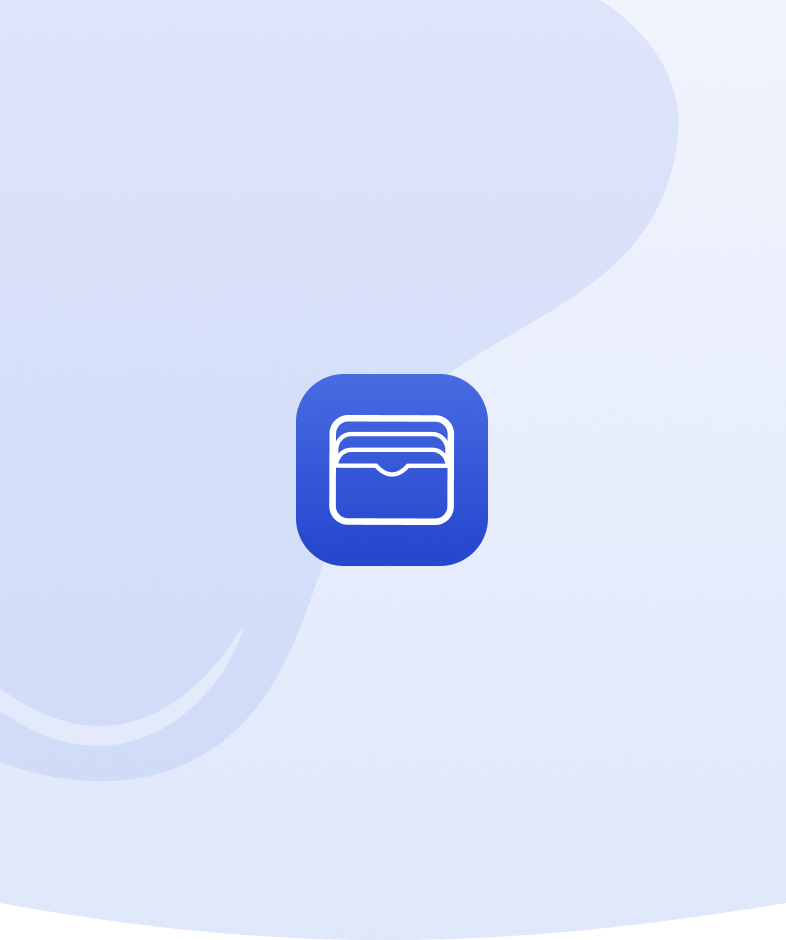
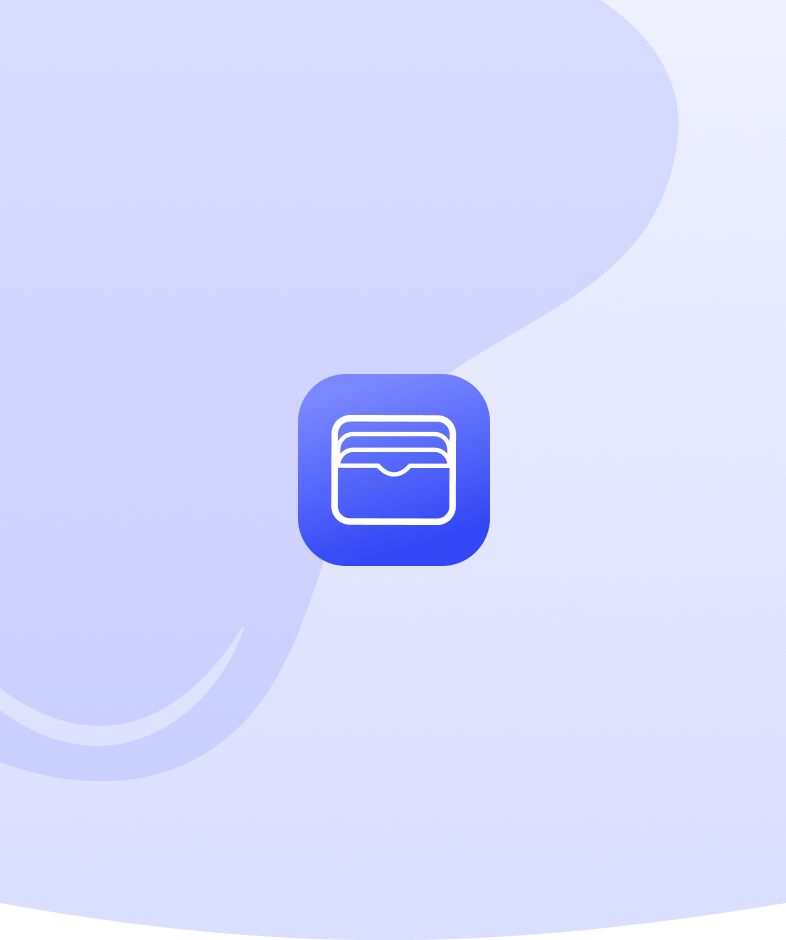
chore: started with the images

Changed region(s): [[0.3664, 0.3702, 0.6412, 0.617]]

diff --git a/apps/easypid/src/features/onboarding/screens/assets/ProtectData.tsx b/apps/easypid/src/features/onboarding/screens/assets/ProtectData.tsx
@@ -5,11 +5,11 @@ export function ProtectData() {
     <Svg width="100%" height="100%" style={{ aspectRatio: 1 }} viewBox="0 0 280 288" fill="none">
       <Path
         d="M191.403 149.929C205.497 161.618 227.195 179.542 230.577 197.8C237.906 237.354 189.609 275.423 155.428 284.719C92.1745 301.919 36.8479 226.873 11.756 177.966C-7.77917 139.873 -6.69766 103.231 43.889 95.5224C93.4516 87.9753 154.001 118.923 191.392 149.929H191.403Z"
-        fill="url(#paint0_linear_3268_4328)"
+        fill="url(#paint0_linear_2304_17437)"
       />
       <Path
         d="M136.399 94.8897C126.298 88.0329 110.732 77.529 107.315 65.61C99.9174 39.8162 129.542 11.4454 151.643 3.0814C192.543 -12.3926 234.086 33.8798 253.886 64.7586C269.303 88.8037 270.925 113.205 237.837 121.558C205.405 129.749 163.217 113.079 136.411 94.8897H136.399Z"
-        fill="url(#paint1_linear_3268_4328)"
+        fill="url(#paint1_linear_2304_17437)"
       />
       <Path
         d="M193.509 18.8198C177.207 12.8948 160.145 15.748 144.591 22.6509C139.206 24.8368 133.88 27.5405 127.966 29.9335C127.701 30.0485 127.425 29.6573 127.678 29.4618C132.188 25.4236 137.02 21.7075 142.29 18.6703C152.713 12.4922 165.161 8.82214 177.299 11.0771C183.304 12.147 189.137 14.5055 193.889 18.3941C194.142 18.6587 193.866 19.0154 193.509 18.8313V18.8198Z"
@@ -25,11 +25,11 @@ export function ProtectData() {
       />
       <Path
         d="M162.147 249.479C145.879 248.156 113.102 245.855 96.8227 244.717C90.9897 244.705 86.0772 239.091 86.8825 233.281L90.2189 184.27C92.5429 153.587 96.2474 99.1003 98.5023 68.9347C98.8475 62.9867 104.462 58.1086 110.421 58.6609L175.746 63.2858L176.252 63.3203C182.188 63.6655 187.158 69.0842 186.905 75.0437C185.306 98.9507 182.395 133.787 180.336 157.763C178.84 173.997 175.884 206.762 174.399 222.995L173.03 239.309C173.122 245.004 167.899 250.112 162.147 249.479ZM162.17 249.134C167.715 249.606 172.593 244.774 172.421 239.263L173.525 222.926L175.516 190.241C177.184 161.111 179.83 121.305 182.073 92.2204L183.35 75.8951C184.006 71.1551 180.29 66.7948 175.493 66.7027L110.214 61.422C105.727 60.9733 101.425 64.6434 101.137 69.1533C98.744 99.0887 94.3721 153.967 91.9446 184.42L87.8604 233.373C87.078 238.746 91.4268 243.9 96.8916 244.003C113.171 245.326 145.902 247.984 162.181 249.146L162.17 249.134Z"
-        fill="#2A337E"
+        fill="#202EA7"
       />
       <Path
         d="M157.201 72.4651L127.661 70.2284C126.85 70.167 126.143 70.7746 126.082 71.5856L126.053 71.9642C125.991 72.7752 126.599 73.4824 127.41 73.5438L156.95 75.7805C157.761 75.8419 158.469 75.2342 158.53 74.4232L158.559 74.0447C158.62 73.2337 158.012 72.5265 157.201 72.4651Z"
-        fill="#2A337E"
+        fill="#202EA7"
       />
       <Path
         d="M80.4282 174.215C80.4282 174.215 79.784 135.547 55.3823 139.655C32.0505 143.578 41.2889 179.001 41.2889 179.001L47.6741 178.219C47.6741 178.219 40.7712 148.686 56.4292 145.879C72.8121 142.945 73.9856 174.997 73.9856 174.997L80.4282 174.215Z"
@@ -37,43 +37,43 @@ export function ProtectData() {
       />
       <Path
         d="M82.3149 173.857L38.7598 179.182C31.6077 180.057 26.5186 186.563 27.393 193.715L30.9782 223.041C31.8526 230.193 38.3593 235.283 45.5114 234.408L89.0664 229.083C96.2185 228.209 101.308 221.702 100.433 214.55L96.848 185.224C95.9737 178.072 89.467 172.983 82.3149 173.857Z"
-        fill="url(#paint2_linear_3268_4328)"
+        fill="url(#paint2_linear_2304_17437)"
       />
       <Path
         d="M89.0914 229.323C75.3201 231.026 60.2258 233.189 46.6156 235.444C38.6198 237.308 30.2213 231.555 29.0708 223.352L27.9318 216.288C26.8043 209.489 25.6309 201.942 24.6645 195.073C23.5255 189.356 25.7344 183.178 30.3478 179.577C32.6258 177.701 35.4674 176.551 38.3781 176.16L52.5865 174.537C61.7674 173.652 73.8935 172.329 82.9938 171.753C90.5639 171.362 97.6509 177.552 98.2031 185.099C98.7783 192.013 99.3996 199.618 100.032 206.486C100.193 208.994 101.079 214.781 100.838 217.243C100.309 223.387 95.2578 228.691 89.1028 229.312L89.0914 229.323ZM89.0568 228.978C94.9933 228.311 99.9059 223.168 100.297 217.209C100.481 214.873 99.4687 208.994 99.2386 206.59L97.4783 192.393C96.857 188.274 96.9031 182.2 93.9003 178.921C90.9896 175.159 86.008 173.467 81.3716 174.319L38.7923 179.588C31.6018 180.336 26.3902 187.641 27.8168 194.694C28.3575 199.181 29.8301 211.341 30.3823 215.989C31.1302 220.637 30.7504 225.78 33.9143 229.461C36.8135 233.235 41.7951 234.949 46.443 234.109L89.0338 228.967L89.0568 228.978Z"
-        fill="#2A337E"
+        fill="#202EA7"
       />
       <Path
         d="M40.9438 178.99C37.3313 167.646 35.4446 153 43.9121 143.21C48.5255 138.32 55.7275 136.445 62.2737 137.641C77.6211 140.909 81.2221 161.376 80.1981 174.296C79.2548 160.306 74.5839 137.204 55.9691 139.758C42.1518 141.242 38.6773 155.244 39.4942 167.117C39.7127 171.097 40.2536 175.067 41.174 178.944C41.22 179.07 40.9783 179.151 40.9553 179.001L40.9438 178.99Z"
-        fill="#2A337E"
+        fill="#202EA7"
       />
       <Path
         d="M47.3289 178.207C44.4872 169.176 42.4968 158.477 47.3979 149.56C51.1945 142.911 61.4337 141.507 66.6684 147.214C73.4447 154.715 74.2271 165.529 73.8589 174.963C73.8589 175.101 73.6404 175.101 73.6289 174.963C73.4563 171.845 73.0651 168.727 72.4899 165.656C71.2704 159.662 69.5907 153.208 65.1729 148.767C60.7665 144.142 52.4601 145.327 49.2272 150.734C47.559 153.334 46.7652 156.44 46.3856 159.512C45.6723 165.713 46.3049 172.041 47.559 178.138C47.5935 178.276 47.3634 178.346 47.3404 178.196L47.3289 178.207Z"
-        fill="#2A337E"
+        fill="#202EA7"
       />
       <Path
         d="M71.1324 196.995C70.5571 192.312 66.312 188.987 61.6295 189.563C56.9586 190.138 53.6221 194.383 54.1973 199.066C54.6 202.322 56.7974 204.887 59.6621 205.98L60.8126 215.414C61.0772 217.577 63.0446 219.119 65.2075 218.854C67.3704 218.589 68.912 216.622 68.6474 214.459L67.4969 205.025C70.0165 203.276 71.535 200.262 71.1324 197.006V196.995Z"
-        fill="#DFE7FA"
+        fill="#DADEFF"
       />
       <Path
         d="M71.0173 197.006C70.281 190.736 62.5383 187.791 58.0285 192.117C54.0708 195.58 55.4743 202.436 60.3753 204.07C61.1116 204.335 61.5949 204.99 61.6754 205.727C62.1241 208.902 62.4462 212.146 62.7108 215.345C62.7339 215.69 62.8834 216.012 63.0789 216.311C64.379 218.267 67.5313 217.163 67.5774 214.816C67.6004 214.401 67.5199 213.412 67.5084 212.929C67.3703 210.294 67.3012 207.66 67.1056 205.036C67.1056 204.91 67.1632 204.783 67.2667 204.714C69.8668 203.161 71.3739 200.032 71.0058 197.018L71.0173 197.006ZM71.2475 196.983C71.7767 199.917 69.8554 203.909 67.6349 205.002L68.6128 212.791C68.7739 214.091 69.096 215.506 68.4402 216.737C67.2552 219.383 63.3551 219.866 61.5604 217.588C60.617 216.553 60.571 215.092 60.4099 213.792L59.4435 206.003L59.5816 206.187C56.6824 205.106 54.4504 202.413 54.0362 199.342C52.7591 187.756 69.3722 185.455 71.2359 196.983H71.2475Z"
-        fill="#2A337E"
+        fill="#202EA7"
       />
       <Path
         d="M119.782 107.318L110.261 106.597C109.443 106.536 108.731 107.145 108.669 107.96C108.608 108.774 109.22 109.484 110.037 109.546L119.559 110.267C120.376 110.329 121.089 109.719 121.151 108.905C121.212 108.09 120.6 107.38 119.782 107.318Z"
-        fill="#DFE7FA"
+        fill="#DADEFF"
       />
       <Path
         d="M136.254 108.582L126.732 107.861C125.915 107.799 125.202 108.409 125.14 109.223C125.079 110.037 125.691 110.747 126.509 110.809L136.03 111.53C136.848 111.592 137.56 110.982 137.622 110.168C137.684 109.354 137.071 108.644 136.254 108.582Z"
-        fill="#DFE7FA"
+        fill="#DADEFF"
       />
       <Path
         d="M152.897 109.834L143.375 109.113C142.558 109.051 141.845 109.661 141.784 110.475C141.722 111.29 142.335 112 143.152 112.062L152.674 112.783C153.491 112.844 154.204 112.235 154.265 111.42C154.327 110.606 153.714 109.896 152.897 109.834Z"
-        fill="#DFE7FA"
+        fill="#DADEFF"
       />
       <Path
         d="M168.923 111.052L159.402 110.331C158.584 110.269 157.872 110.879 157.81 111.693C157.749 112.508 158.361 113.218 159.179 113.28L168.7 114.001C169.518 114.062 170.23 113.453 170.292 112.638C170.353 111.824 169.741 111.114 168.923 111.052Z"
-        fill="#DFE7FA"
+        fill="#DADEFF"
       />
       <Path
         d="M270.729 135.203L168.647 127.471L163.401 121.282L157.131 126.597L149.388 126.01C144.004 125.608 139.298 129.634 138.896 135.03L136.054 172.57C135.651 177.954 139.678 182.66 145.074 183.063L266.415 192.255C271.799 192.658 276.505 188.631 276.907 183.235L279.749 145.695C280.152 140.311 276.125 135.605 270.729 135.203Z"
@@ -81,27 +81,27 @@ export function ProtectData() {
       />
       <Path
         d="M270.718 135.375C242.255 133.109 197.363 130.739 168.509 129.255C168.014 129.232 167.577 128.99 167.278 128.633L161.894 122.559L164.666 122.789L158.511 128.254C158.063 128.645 157.51 128.806 156.958 128.76L152.805 128.541C152.034 128.518 149.986 128.38 149.181 128.346C146.949 128.265 144.706 129.197 143.291 130.9C141.749 132.626 141.496 134.811 141.438 137.066L140.92 145.373C140.38 154.278 139.747 163.93 139.08 172.858C138.792 176.378 141.645 179.68 145.131 179.979C146.891 180.14 150.492 180.417 152.31 180.566C188.286 183.327 228.219 187.561 264.148 191.047L266.219 191.254C270.706 191.898 275.216 188.654 276.09 184.19C276.297 183.086 276.424 181.256 276.528 180.129C277.229 170.338 278.782 156.625 279.392 146.972C280.451 141.45 276.413 135.743 270.706 135.398L270.718 135.375ZM270.741 135.03C276.631 135.341 280.922 141.289 279.829 146.984L277.344 180.163C277.218 181.555 277.195 182.913 276.976 184.328C276.24 188.55 272.535 192.036 268.256 192.451C265.874 192.623 262.331 192.117 259.915 192.002C232.717 189.977 195.994 187.204 168.659 185.168C162.987 184.662 149.25 183.868 143.739 183.212C139.471 182.384 136.042 178.553 135.732 174.215C135.617 171.397 136.399 164.62 136.537 161.721L138.447 136.836C138.516 134.064 139.183 131.072 141.197 128.99C143.106 126.85 145.971 125.642 148.824 125.723C151.62 125.884 154.358 126.137 157.142 126.332L156.935 126.401L163.217 121.086C163.332 120.994 163.504 121.006 163.596 121.121L168.843 127.322C167.819 126.954 270.982 135.191 270.741 135.053V135.03Z"
-        fill="#2A337E"
+        fill="#202EA7"
       />
       <Path
         d="M164.954 154.278C166.266 153.795 167.508 153.3 168.705 152.805C169.901 152.311 170.844 151.954 171.546 151.735C172.248 151.517 172.8 151.425 173.215 151.448C173.893 151.494 174.469 151.77 174.929 152.264C175.389 152.759 175.596 153.346 175.538 154.025C175.504 154.416 175.354 154.807 175.078 155.21C174.802 155.612 174.526 155.854 174.25 155.958C171.673 156.763 168.854 157.269 165.805 157.488C166.312 158.04 166.933 158.753 167.669 159.651C168.405 160.548 168.785 161.02 168.82 161.089C169.084 161.514 169.452 162.055 169.924 162.699C170.407 163.344 170.73 163.838 170.914 164.195C171.086 164.552 171.167 164.966 171.121 165.461C171.075 166.082 170.799 166.611 170.292 167.037C169.786 167.462 169.165 167.658 168.429 167.6C167.692 167.543 166.898 166.91 166.07 165.691C165.23 164.471 164.195 162.32 162.964 159.236C161.284 161.802 160.157 163.505 159.593 164.322C159.029 165.138 158.488 165.748 157.994 166.151C157.499 166.553 156.947 166.726 156.337 166.68C155.612 166.622 155.037 166.335 154.6 165.806C154.163 165.276 153.967 164.724 154.001 164.16C154.036 163.631 154.174 163.24 154.381 162.987C156.349 160.698 158.373 158.73 160.456 157.085C158.845 156.705 157.407 156.314 156.141 155.912C154.887 155.509 153.553 154.945 152.161 154.232C151.942 154.094 151.723 153.818 151.539 153.38C151.344 152.943 151.263 152.552 151.286 152.207C151.332 151.528 151.631 150.976 152.161 150.562C152.69 150.148 153.277 149.952 153.921 150.01C154.393 150.044 154.956 150.228 155.635 150.562C156.314 150.895 157.177 151.367 158.212 151.988C159.248 152.61 160.433 153.3 161.767 154.059C161.606 152.817 161.503 151.402 161.457 149.802C161.411 148.203 161.411 147.11 161.457 146.535C161.514 145.81 161.79 145.212 162.285 144.74C162.78 144.257 163.389 144.05 164.103 144.096C164.816 144.142 165.357 144.453 165.782 145.005C166.208 145.557 166.381 146.259 166.312 147.11C166.289 147.34 166.22 147.801 166.105 148.491C165.978 149.181 165.828 150.01 165.621 150.976C165.426 151.942 165.196 153.058 164.943 154.312L164.954 154.278Z"
-        fill="url(#paint3_linear_3268_4328)"
+        fill="url(#paint3_linear_2304_17437)"
       />
       <Path
         d="M196.086 156.636C197.398 156.153 198.64 155.658 199.837 155.164C201.033 154.669 201.977 154.312 202.678 154.094C203.38 153.875 203.932 153.783 204.346 153.806C205.025 153.852 205.6 154.128 206.061 154.623C206.521 155.118 206.728 155.704 206.67 156.383C206.636 156.774 206.486 157.166 206.21 157.568C205.934 157.971 205.658 158.212 205.382 158.316C202.805 159.121 199.986 159.628 196.937 159.846C197.444 160.398 198.065 161.112 198.801 162.009C199.538 162.906 199.917 163.378 199.952 163.447C200.216 163.873 200.584 164.414 201.056 165.058C201.539 165.702 201.861 166.197 202.046 166.553C202.218 166.91 202.299 167.324 202.253 167.819C202.207 168.44 201.93 168.969 201.424 169.395C200.918 169.821 200.297 170.016 199.56 169.959C198.824 169.901 198.03 169.269 197.202 168.049C196.362 166.83 195.327 164.678 194.096 161.595C192.416 164.16 191.289 165.863 190.725 166.68C190.161 167.497 189.62 168.107 189.126 168.509C188.631 168.912 188.079 169.084 187.469 169.038C186.744 168.981 186.169 168.693 185.732 168.164C185.295 167.635 185.099 167.083 185.134 166.519C185.168 165.99 185.306 165.599 185.513 165.345C187.48 163.056 189.505 161.089 191.588 159.443C189.977 159.064 188.539 158.673 187.273 158.27C186.019 157.867 184.685 157.304 183.293 156.59C183.074 156.452 182.856 156.176 182.671 155.739C182.476 155.302 182.395 154.911 182.418 154.565C182.464 153.887 182.764 153.334 183.293 152.92C183.822 152.506 184.409 152.311 185.053 152.368C185.525 152.403 186.088 152.587 186.767 152.92C187.446 153.254 188.309 153.726 189.344 154.347C190.38 154.968 191.565 155.658 192.899 156.418C192.738 155.175 192.635 153.76 192.589 152.161C192.543 150.562 192.543 149.469 192.589 148.894C192.646 148.169 192.922 147.571 193.417 147.099C193.912 146.616 194.521 146.409 195.235 146.455C195.948 146.501 196.489 146.811 196.914 147.363C197.34 147.916 197.513 148.617 197.444 149.469C197.421 149.699 197.352 150.159 197.237 150.849C197.11 151.54 196.96 152.368 196.753 153.334C196.558 154.301 196.328 155.417 196.075 156.671L196.086 156.636Z"
-        fill="url(#paint4_linear_3268_4328)"
+        fill="url(#paint4_linear_2304_17437)"
       />
       <Path
         d="M227.23 158.995C228.541 158.512 229.784 158.017 230.98 157.522C232.177 157.028 233.12 156.671 233.822 156.452C234.524 156.234 235.076 156.142 235.49 156.165C236.169 156.211 236.744 156.487 237.204 156.982C237.664 157.476 237.871 158.063 237.814 158.742C237.779 159.133 237.63 159.524 237.354 159.927C237.078 160.329 236.801 160.571 236.525 160.675C233.948 161.48 231.13 161.986 228.081 162.205C228.587 162.757 229.208 163.47 229.945 164.368C230.681 165.265 231.061 165.737 231.095 165.806C231.36 166.231 231.728 166.772 232.2 167.416C232.683 168.061 233.005 168.555 233.189 168.912C233.362 169.269 233.442 169.683 233.396 170.178C233.35 170.799 233.074 171.328 232.568 171.754C232.062 172.179 231.44 172.375 230.704 172.317C229.968 172.26 229.174 171.627 228.345 170.408C227.506 169.188 226.47 167.037 225.239 163.953C223.56 166.519 222.432 168.222 221.868 169.039C221.305 169.855 220.764 170.465 220.269 170.868C219.774 171.27 219.222 171.443 218.612 171.397C217.888 171.34 217.312 171.052 216.875 170.523C216.438 169.993 216.242 169.441 216.277 168.877C216.311 168.348 216.45 167.957 216.657 167.704C218.624 165.415 220.649 163.447 222.731 161.802C221.12 161.422 219.682 161.031 218.417 160.629C217.163 160.226 215.828 159.662 214.436 158.949C214.218 158.811 213.999 158.535 213.815 158.097C213.619 157.66 213.539 157.269 213.562 156.924C213.608 156.245 213.907 155.693 214.436 155.279C214.965 154.865 215.552 154.669 216.196 154.727C216.668 154.761 217.232 154.945 217.911 155.279C218.589 155.612 219.452 156.084 220.488 156.705C221.523 157.327 222.708 158.017 224.043 158.776C223.882 157.534 223.778 156.119 223.732 154.519C223.686 152.92 223.686 151.827 223.732 151.252C223.79 150.527 224.066 149.929 224.56 149.457C225.055 148.974 225.665 148.767 226.378 148.813C227.091 148.859 227.632 149.17 228.058 149.722C228.484 150.274 228.656 150.976 228.587 151.827C228.564 152.057 228.495 152.518 228.38 153.208C228.253 153.898 228.104 154.727 227.897 155.693C227.701 156.659 227.471 157.775 227.218 159.029L227.23 158.995Z"
-        fill="url(#paint5_linear_3268_4328)"
+        fill="url(#paint5_linear_2304_17437)"
       />
       <Path
         d="M262.177 171.051L246.254 169.845C245.196 169.765 244.273 170.558 244.193 171.616C244.113 172.674 244.906 173.597 245.964 173.677L261.887 174.882C262.945 174.962 263.868 174.17 263.948 173.112C264.028 172.054 263.235 171.131 262.177 171.051Z"
-        fill="url(#paint6_linear_3268_4328)"
+        fill="url(#paint6_linear_2304_17437)"
       />
       <Path
         d="M240.621 79.4965C254.13 79.4965 265.08 68.5458 265.08 55.0373C265.08 41.5289 254.13 30.5781 240.621 30.5781C227.113 30.5781 216.162 41.5289 216.162 55.0373C216.162 68.5458 227.113 79.4965 240.621 79.4965Z"
-        fill="#DFE7FA"
+        fill="#DADEFF"
       />
       <Path
         d="M238.067 74.5377C251.576 74.5377 262.526 63.5869 262.526 50.0785C262.526 36.57 251.576 25.6192 238.067 25.6192C224.559 25.6192 213.608 36.57 213.608 50.0785C213.608 63.5869 224.559 74.5377 238.067 74.5377Z"
@@ -109,84 +109,84 @@ export function ProtectData() {
       />
       <Path
         d="M218.681 65.1843C205.267 47.6164 219.027 22.6395 241.162 25.0555C258.948 26.9538 269.303 47.1562 260.375 62.7222C251.493 78.4953 229.415 79.3582 218.681 65.1728V65.1843ZM218.866 65.0462C231.947 81.3945 258.488 73.3987 261.203 52.9431C263.136 40.4374 253.587 27.9892 240.978 26.5396C219.947 23.79 205.693 48.1917 218.866 65.0347V65.0462Z"
-        fill="#2A337E"
+        fill="#202EA7"
       />
       <Path
         d="M226.39 44.004C226.39 44.004 226.309 44.004 226.275 44.004C225.711 43.935 225.297 43.4288 225.366 42.8535L225.826 38.9074C226.056 36.917 227.862 35.4905 229.841 35.7205L233.787 36.1807C234.351 36.2498 234.765 36.756 234.696 37.3312C234.627 37.895 234.109 38.3091 233.546 38.2401L229.6 37.7799C228.748 37.6764 227.977 38.2976 227.874 39.149L227.414 43.0951C227.356 43.6243 226.907 44.0155 226.39 44.0155V44.004Z"
-        fill="#7294E8"
+        fill="#ACB4FB"
       />
       <Path
         d="M250.573 46.8112C250.573 46.8112 250.492 46.8112 250.458 46.8112C249.894 46.7422 249.48 46.236 249.549 45.6608L250.009 41.7146C250.055 41.3004 249.94 40.8978 249.687 40.5756C249.434 40.2535 249.066 40.0464 248.651 40.0004L244.705 39.5402C244.141 39.4712 243.727 38.965 243.796 38.3897C243.865 37.826 244.383 37.4118 244.947 37.4808L248.893 37.941C249.859 38.0561 250.711 38.5278 251.32 39.2871C251.919 40.0464 252.195 40.9898 252.08 41.9562L251.62 45.9024C251.562 46.4316 251.113 46.8227 250.596 46.8227L250.573 46.8112Z"
-        fill="#7294E8"
+        fill="#ACB4FB"
       />
       <Path
         d="M246.247 64.172C246.109 64.172 245.959 64.172 245.821 64.149L241.875 63.6888C241.311 63.6197 240.897 63.1135 240.966 62.5383C241.035 61.9746 241.553 61.5604 242.117 61.6294L246.063 62.0896C246.477 62.1356 246.88 62.0206 247.213 61.7675C247.535 61.5144 247.743 61.1347 247.789 60.732L248.249 56.7859C248.318 56.2222 248.835 55.808 249.399 55.877C249.963 55.946 250.377 56.4522 250.308 57.0275L249.848 60.9736C249.733 61.94 249.261 62.7914 248.502 63.4011C247.858 63.9189 247.075 64.1835 246.258 64.1835L246.247 64.172Z"
-        fill="#7294E8"
+        fill="#ACB4FB"
       />
       <Path
         d="M230.854 62.4002C230.854 62.4002 230.773 62.4002 230.739 62.4002L226.792 61.94C224.802 61.7099 223.375 59.9036 223.606 57.9248L224.066 53.9786C224.135 53.4149 224.652 53.0007 225.216 53.0698C225.78 53.1388 226.194 53.645 226.125 54.2202L225.665 58.1664C225.561 59.0177 226.183 59.7886 227.034 59.8921L230.98 60.3523C231.544 60.4213 231.958 60.9275 231.889 61.5028C231.832 62.032 231.383 62.4232 230.865 62.4232L230.854 62.4002Z"
-        fill="#7294E8"
+        fill="#ACB4FB"
       />
       <Path
         d="M237.71 58.2815C235.133 58.2815 233.166 56.8089 232.246 55.6584C231.889 55.2097 231.969 54.5539 232.418 54.2088C232.867 53.8521 233.511 53.9327 233.868 54.3699C234.167 54.738 236.836 57.8213 240.955 55.1292C241.438 54.8186 242.071 54.9451 242.393 55.4283C242.715 55.9115 242.577 56.5443 242.094 56.8664C240.518 57.8903 239.045 58.2815 237.722 58.2815H237.71Z"
-        fill="#7294E8"
+        fill="#ACB4FB"
       />
       <Path
         d="M236.663 53.5185C236.445 53.5185 236.226 53.4955 235.996 53.4495C235.432 53.3229 235.087 52.7707 235.202 52.2184C235.329 51.6547 235.881 51.3096 236.433 51.4246C236.744 51.4936 236.894 51.4246 237.032 51.3096C237.918 50.5387 238.125 47.5245 237.975 45.6377C237.929 45.0625 238.355 44.5678 238.93 44.5217C239.505 44.4757 240 44.9014 240.046 45.4766C240.115 46.4085 240.379 51.1485 238.401 52.8627C237.906 53.2884 237.319 53.507 236.675 53.507L236.663 53.5185Z"
-        fill="#7294E8"
+        fill="#ACB4FB"
       />
       <Path
         d="M232.441 48.7899C232.441 48.7899 232.361 48.7899 232.315 48.7899C231.751 48.7209 231.337 48.2147 231.406 47.6395L231.693 45.1659C231.762 44.6022 232.269 44.188 232.844 44.257C233.408 44.3261 233.822 44.8323 233.753 45.4075L233.465 47.8811C233.408 48.4103 232.959 48.8014 232.441 48.8014V48.7899Z"
-        fill="#7294E8"
+        fill="#ACB4FB"
       />
       <Path
         d="M243.589 50.09C243.589 50.09 243.509 50.09 243.474 50.09C242.91 50.021 242.496 49.5147 242.565 48.9395L242.853 46.466C242.922 45.9022 243.44 45.4881 244.003 45.5571C244.567 45.6261 244.981 46.1323 244.912 46.7076L244.625 49.1811C244.567 49.7103 244.118 50.1015 243.601 50.1015L243.589 50.09Z"
-        fill="#7294E8"
+        fill="#ACB4FB"
       />
       <Defs>
         <LinearGradient
-          id="paint0_linear_3268_4328"
+          id="paint0_linear_2304_17437"
           x1="115.661"
           y1="94.3735"
           x2="115.661"
           y2="287.23"
           gradientUnits="userSpaceOnUse"
         >
-          <Stop stopColor="#F1F4FD" />
-          <Stop offset="1" stopColor="#DFE7FA" />
+          <Stop stopColor="#EEF0FE" />
+          <Stop offset="1" stopColor="#DADEFF" />
         </LinearGradient>
         <LinearGradient
-          id="paint1_linear_3268_4328"
+          id="paint1_linear_2304_17437"
           x1="185.31"
           y1="0"
           x2="185.31"
           y2="123.701"
           gradientUnits="userSpaceOnUse"
         >
-          <Stop stopColor="#F1F4FD" />
-          <Stop offset="1" stopColor="#DFE7FA" />
+          <Stop stopColor="#EEF0FE" />
+          <Stop offset="1" stopColor="#DADEFF" />
         </LinearGradient>
         <LinearGradient
-          id="paint2_linear_3268_4328"
+          id="paint2_linear_2304_17437"
           x1="62.6241"
           y1="137.292"
           x2="62.6241"
           y2="235.796"
           gradientUnits="userSpaceOnUse"
         >
-          <Stop stopColor="#486BE2" />
-          <Stop offset="1" stopColor="#2445CD" />
+          <Stop stopColor="#7A88FF" />
+          <Stop offset="1" stopColor="#3347F6" />
         </LinearGradient>
         <LinearGradient
-          id="paint3_linear_3268_4328"
+          id="paint3_linear_2304_17437"
           x1="207.86"
           y1="121.025"
           x2="207.86"
           y2="192.486"
           gradientUnits="userSpaceOnUse"
         >
-          <Stop stopColor="#486BE2" />
-          <Stop offset="1" stopColor="#2445CD" />
+          <Stop stopColor="#7A88FF" />
+          <Stop offset="1" stopColor="#3347F6" />
         </LinearGradient>
         <LinearGradient
           id="paint4_linear_3268_4328"
@@ -196,8 +196,8 @@ export function ProtectData() {
           y2="192.486"
           gradientUnits="userSpaceOnUse"
         >
-          <Stop stopColor="#486BE2" />
-          <Stop offset="1" stopColor="#2445CD" />
+          <Stop stopColor="#7A88FF" />
+          <Stop offset="1" stopColor="#3347F6" />
         </LinearGradient>
         <LinearGradient
           id="paint5_linear_3268_4328"
@@ -207,8 +207,8 @@ export function ProtectData() {
           y2="192.486"
           gradientUnits="userSpaceOnUse"
         >
-          <Stop stopColor="#486BE2" />
-          <Stop offset="1" stopColor="#2445CD" />
+          <Stop stopColor="#7A88FF" />
+          <Stop offset="1" stopColor="#3347F6" />
         </LinearGradient>
         <LinearGradient
           id="paint6_linear_3268_4328"
@@ -218,8 +218,8 @@ export function ProtectData() {
           y2="192.486"
           gradientUnits="userSpaceOnUse"
         >
-          <Stop stopColor="#486BE2" />
-          <Stop offset="1" stopColor="#2445CD" />
+          <Stop stopColor="#7A88FF" />
+          <Stop offset="1" stopColor="#3347F6" />
         </LinearGradient>
       </Defs>
     </Svg>

diff --git a/apps/easypid/src/features/onboarding/screens/welcome.tsx b/apps/easypid/src/features/onboarding/screens/welcome.tsx
@@ -27,7 +27,6 @@ export default function OnboardingWelcome({ goToNextStep }: OnboardingWelcomePro
             <IconContainer
               aria-label="Info"
               icon={<HeroIcons.QuestionMarkCircle />}
-              p="$2"
               onPress={() => {
                 Alert.alert(
                   'This is the EasyPID wallet',
@@ -38,7 +37,7 @@ export default function OnboardingWelcome({ goToNextStep }: OnboardingWelcomePro
           </YStack>
           <Stack h="$11" />
           <YStack gap="$4" jc="center" ai="center">
-            <Heading fontSize={32}>Animo EasyPID</Heading>
+            <Heading fontSize={32}>Paradym Wallet</Heading>
             <Paragraph px="$2" ta="center">
               This is your digital wallet. With it, you can store and share information about yourself.
             </Paragraph>

diff --git a/apps/easypid/tamagui.config.ts b/apps/easypid/tamagui.config.ts
@@ -33,16 +33,16 @@ const tokens = createTokens({
     'grey-700': '#656974',
     'grey-800': '#464B56',
     'grey-900': '#222222',
-    'primary-50': '#F1F4FD',
-    'primary-100': '#DFE7FA',
-    'primary-200': '#C6D4F7',
-    'primary-300': '#9FB9F1',
-    'primary-400': '#7294E8',
-    'primary-500': '#4365DE',
-    'primary-600': '#3C54D4',
-    'primary-700': '#3341C2',
-    'primary-800': '#2F379E',
-    'primary-900': '#2A337E',
+    'primary-50': '#F7F7FF',
+    'primary-100': '#EEF0FE',
+    'primary-200': '#DADEFF',
+    'primary-300': '#ACB4FB',
+    'primary-400': '#7A88FF',
+    'primary-500': '#5A33F6',
+    'primary-600': '#2233C9',
+    'primary-700': '#202EA7',
+    'primary-800': '#141E80',
+    'primary-900': '#131C66',
     'feature-300': '#DFA6FF',
     'feature-400': '#CA79FF',
     'feature-500': '#A000F8',

diff --git a/packages/ui/src/components/ProgressHeader.tsx b/packages/ui/src/components/ProgressHeader.tsx
@@ -33,7 +33,7 @@ export function ProgressHeader({
 
   const colorValue = useSharedValue(color === 'primary' ? 0 : 1)
   const animatedStyle = useAnimatedStyle(() => {
-    const backgroundColor = interpolateColor(colorValue.value, [0, 1], ['#4365DE', '#DC3130'])
+    const backgroundColor = interpolateColor(colorValue.value, [0, 1], ['#5A33F6', '#DC3130'])
     return { backgroundColor: backgroundColor }
   })
 
